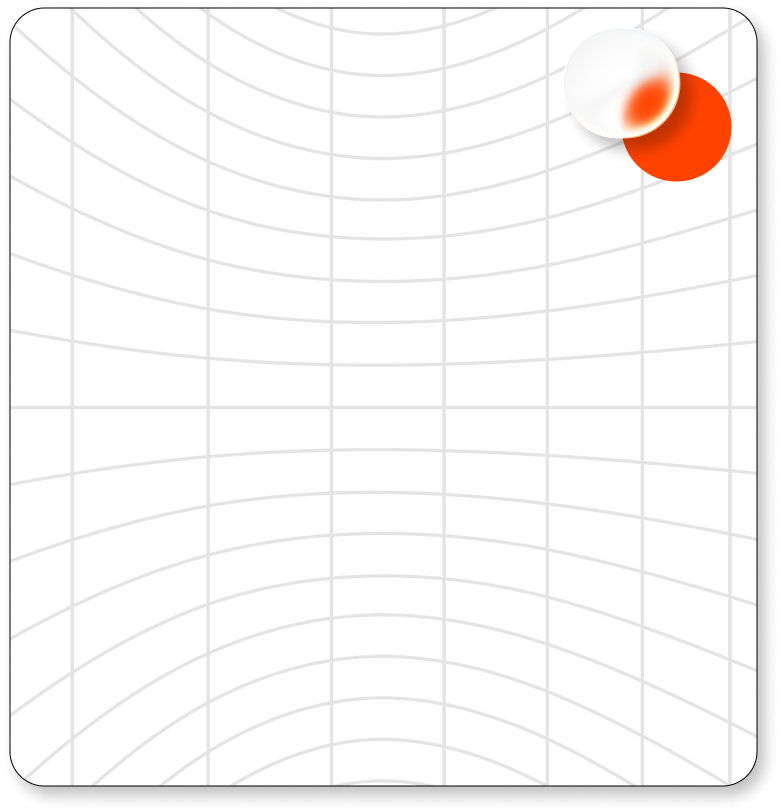
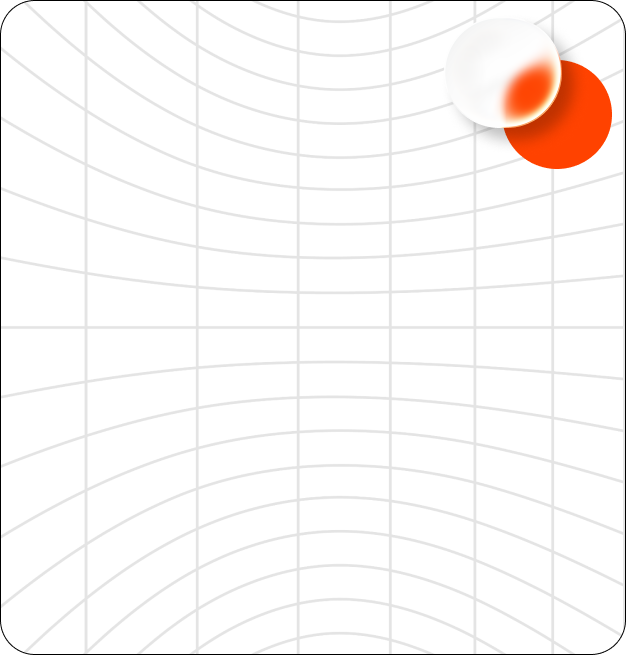
feat: responsive modal with custom input/textarea components and absolute positioned background images

diff --git a/src/components/DemoModal/DemoModal.jsx b/src/components/DemoModal/DemoModal.jsx
@@ -1,6 +1,8 @@
 import PropTypes from "prop-types";
 import { useState, useEffect } from "react";
-import { Button } from "..";
+import { Button, Flex, Typography } from "..";
+import Input from "../UI/Input/Input";
+import Textarea from "../UI/Input/Textarea";
 import data from "./demo_modal.data.json";
 
 const DemoModal = ({ isOpen, onClose }) => {
@@ -54,123 +56,105 @@ const DemoModal = ({ isOpen, onClose }) => {
   if (!isOpen) return null;
 
   return (
-    <div
-      className="fixed inset-0 z-9999 flex items-center justify-center"
-      onClick={onClose}
-      role="presentation"
-    >
+    <div className="fixed inset-0 z-9999 flex items-center justify-center" role="presentation">
       {/* Backdrop with blur */}
-      <div className="absolute inset-0 bg-black/30 backdrop-blur-sm" />
-
-      {/* Modal Container */}
-      {/* eslint-disable-next-line jsx-a11y/click-events-have-key-events, jsx-a11y/no-noninteractive-element-interactions */}
       <div
-        className="relative z-10 w-[95%] sm:w-[90%] md:w-[85%] lg:w-[748px] max-w-[748px] mx-auto px-2 sm:px-4"
-        onClick={(e) => e.stopPropagation()}
-        role="dialog"
-        aria-modal="true"
-      >
-        {/* Header Image */}
+        className="absolute inset-0 bg-black/30 backdrop-blur-sm"
+        onClick={onClose}
+        onKeyDown={(e) => {
+          if (e.key === "Enter" || e.key === " ") {
+            e.preventDefault();
+            onClose();
+          }
+        }}
+        role="button"
+        tabIndex={0}
+        aria-label="Close modal"
+      />
 
-        {/* Main Modal Card */}
-        <div
-          className="relative bg-transparent rounded-[20px] sm:rounded-[25px] md:rounded-[35px] border border-black"
-          style={{
-            boxShadow: "7px 9px 16.5px 0px rgba(0, 0, 0, 0.25)",
-            backgroundImage: `url('${data.modal_background}')`,
-            backgroundSize: "cover",
-            backgroundPosition: "center",
-            backgroundRepeat: "no-repeat",
-          }}
-        >
-          {/* Form Content */}
-          <form
-            onSubmit={handleSubmit}
-            className="relative pt-[40px] sm:pt-[50px] md:pt-[60px] pb-[40px] sm:pb-[50px] md:pb-[57px] px-[20px] sm:px-[40px] md:px-[61px]"
+      {/* Modal Content with absolute image */}
+      <section
+        className="relative w-[356px] xs:w-[376px] sm:w-[506px] md:w-[606px] lg:w-[706px]  flex justify-center items-start px-4 sm:px-6 md:px-12 py-6"
+        role="dialog"
+        tabIndex={-1}
+        aria-modal="true"
+        style={{ minHeight: 500 }}
+      >
+        {/* Responsive background image absolutely positioned */}
+        <img
+          src={data.background.mobile}
+          alt="Modal background"
+          className="absolute inset-0 w-full h-full object-fill md:hidden pointer-events-none select-none z-0"
+          draggable={false}
+        />
+        <img
+          src={data.background.large}
+          alt="Modal background large"
+          className="absolute inset-0 w-full h-full object-fill hidden md:block pointer-events-none select-none z-0"
+          draggable={false}
+        />
+        {/* Modal form content above image */}
+        <form className="relative w-full z-10" onSubmit={handleSubmit}>
+          <Flex align="items-start" justify="justify-start">
+            <Typography
+              as="h2"
+              variant="modal-title"
+              className="flex flex-col items-start text-left w-full"
+            >
+              {data.modal_title.part1}
+              <Typography.Text className="text-black text-[24px] text-left w-full">{` ${data.modal_title.part2}`}</Typography.Text>
+            </Typography>
+          </Flex>
+          <Flex
+            spaceY="space-y-2.5 md:space-y-3 2xl:space-y-8"
+            className="w-full mx-auto mt-12"
+            direction="flex-col"
+            align="items-center"
           >
-            {/* Username Input */}
-            <input
+            <Input
               type="text"
               name="username"
               value={formData.username}
               onChange={handleChange}
               placeholder="Username"
               required
-              className="w-full bg-white/50 focus:bg-white backdrop-blur-sm rounded-[12px] sm:rounded-[16px] md:rounded-[20px] px-[16px] sm:px-[20px] md:px-[23px] py-[10px] sm:py-[12px] md:py-[13px] mb-4 sm:mb-5 md:mb-6 font-poppins text-[16px] sm:text-[20px] md:text-[24px] text-black placeholder:opacity-30 border-none outline-none focus:ring-2 focus:ring-black/10 transition-colors"
             />
-
-            {/* Email Input */}
-            <input
+            <Input
               type="email"
               name="email"
               value={formData.email}
               onChange={handleChange}
               placeholder="Email Address"
               required
-              className="w-full bg-white/50 focus:bg-white backdrop-blur-sm rounded-[12px] sm:rounded-[16px] md:rounded-[20px] px-[16px] sm:px-[20px] md:px-[23px] py-[10px] sm:py-[12px] md:py-[13px] mb-4 sm:mb-5 md:mb-6 font-poppins text-[16px] sm:text-[20px] md:text-[24px] text-black placeholder:opacity-30 border-none outline-none focus:ring-2 focus:ring-black/10 transition-colors"
             />
-
-            {/* Company Name Input */}
-            <input
+            <Input
               type="text"
               name="company"
               value={formData.company}
               onChange={handleChange}
               placeholder="Company Name"
               required
-              className="w-full bg-white/50 focus:bg-white backdrop-blur-sm rounded-[12px] sm:rounded-[16px] md:rounded-[20px] px-[16px] sm:px-[20px] md:px-[23px] py-[10px] sm:py-[12px] md:py-[13px] mb-4 sm:mb-5 md:mb-6 font-poppins text-[16px] sm:text-[20px] md:text-[24px] text-black placeholder:opacity-30 border-none outline-none focus:ring-2 focus:ring-black/10 transition-colors"
             />
-
-            {/* LinkedIn Input */}
-            <input
+            <Input
               type="text"
               name="linkedin"
               value={formData.linkedin}
               onChange={handleChange}
               placeholder="Company LinkedIn"
-              className="w-full bg-white/50 focus:bg-white backdrop-blur-sm rounded-[12px] sm:rounded-[16px] md:rounded-[20px] px-[16px] sm:px-[20px] md:px-[23px] py-[10px] sm:py-[12px] md:py-[13px] mb-4 sm:mb-5 md:mb-6 font-poppins text-[16px] sm:text-[20px] md:text-[24px] text-black placeholder:opacity-30 border-none outline-none focus:ring-2 focus:ring-black/10 transition-colors"
             />
-
-            {/* Note Textarea */}
-            <textarea
+            <Textarea
               name="note"
               value={formData.note}
               onChange={handleChange}
               placeholder="Leave a Note.."
               rows={3}
-              className="w-full bg-white/50 focus:bg-white backdrop-blur-sm rounded-[12px] sm:rounded-[16px] md:rounded-[20px] px-[16px] sm:px-[20px] md:px-[23px] py-[10px] sm:py-[12px] md:py-[13px] mb-4 sm:mb-5 md:mb-6 font-poppins text-[18px] sm:text-[20px] md:text-[24px] text-gray-900 placeholder:opacity-30 outline-none resize-none transition-colors"
             />
-
-            {/* Submit Button */}
-            <div className="flex justify-center">
-              <Button
-                type="submit"
-                className="bg-black text-white rounded-[0.5rem] px-[40px] sm:px-[60px] md:px-[74px] py-2 sm:py-2.5 font-poppins font-bold text-[20px] sm:text-[26px] md:text-[32px] hover:bg-black/90 transition-all"
-              >
-                Schedule a Demo
-              </Button>
-            </div>
-          </form>
-
-          {/* Close button (X) */}
-          <button
-            type="button"
-            onClick={onClose}
-            className="absolute -top-5 -right-5 w-[50px] h-[50px] flex items-center justify-center rounded-full bg-accent transition-colors z-20"
-            aria-label="Close modal"
-          >
-            <svg
-              width="20"
-              height="20"
-              viewBox="0 0 20 20"
-              fill="#fff"
-              xmlns="http://www.w3.org/2000/svg"
-            >
-              <path d="M15 5L5 15M5 5L15 15" stroke="#fff" strokeWidth="2" strokeLinecap="round" />
-            </svg>
-          </button>
-        </div>
-      </div>
+            <Button variant="footer_contact" className="bg-black!">
+              {data.button_label.contact_button_label}
+            </Button>
+          </Flex>
+        </form>
+      </section>
     </div>
   );
 };

diff --git a/src/components/UI/Input/Input.jsx b/src/components/UI/Input/Input.jsx
@@ -1,0 +1,73 @@
+import PropTypes from "prop-types";
+import { forwardRef } from "react";
+
+const Input = forwardRef(
+  (
+    {
+      type = "text",
+      placeholder = "",
+      value,
+      onChange,
+      name,
+      required = false,
+      disabled = false,
+      variant = "default",
+      error = false,
+      errorMessage = "",
+      className = "",
+      ...rest
+    },
+    ref,
+  ) => {
+    const baseStyles =
+      "w-full border rounded-[0.5rem] px-2 sm:px-3 lg:px-5 min-h-[38px] sm:min-h-[44px] lg:min-h-[52px] h-[2.5rem] sm:h-[2.75rem] lg:h-[3rem] font-poppins text-[15px] sm:text-[16px] lg:text-[17px] text-black placeholder:text-gray-400 outline-none transition-all";
+
+    const variants = {
+      default: "bg-[#E7EAED] border-gray-200 focus:bg-white focus:border-black",
+      warning:
+        "bg-red-50 border-red-400 focus:bg-red-50 focus:border-red-500 text-red-900 placeholder:text-red-400",
+    };
+
+    const variantClass = error ? variants.warning : variants[variant];
+
+    return (
+      <div className="w-full">
+        <input
+          ref={ref}
+          type={type}
+          name={name}
+          value={value}
+          onChange={onChange}
+          placeholder={placeholder}
+          required={required}
+          disabled={disabled}
+          className={`${baseStyles} ${variantClass} ${className} ${
+            disabled ? "opacity-50 cursor-not-allowed" : ""
+          }`}
+          {...rest}
+        />
+        {error && errorMessage && (
+          <p className="mt-1 text-sm text-red-600 font-poppins">{errorMessage}</p>
+        )}
+      </div>
+    );
+  },
+);
+
+Input.displayName = "Input";
+
+Input.propTypes = {
+  type: PropTypes.string,
+  placeholder: PropTypes.string,
+  value: PropTypes.string,
+  onChange: PropTypes.func,
+  name: PropTypes.string,
+  required: PropTypes.bool,
+  disabled: PropTypes.bool,
+  variant: PropTypes.oneOf(["default", "warning"]),
+  error: PropTypes.bool,
+  errorMessage: PropTypes.string,
+  className: PropTypes.string,
+};
+
+export default Input;

diff --git a/src/components/UI/Input/Textarea.jsx b/src/components/UI/Input/Textarea.jsx
@@ -1,0 +1,73 @@
+import PropTypes from "prop-types";
+import { forwardRef } from "react";
+
+const Textarea = forwardRef(
+  (
+    {
+      placeholder = "",
+      value,
+      onChange,
+      name,
+      required = false,
+      disabled = false,
+      variant = "default",
+      error = false,
+      errorMessage = "",
+      rows = 3,
+      className = "",
+      ...rest
+    },
+    ref,
+  ) => {
+    const baseStyles =
+      "w-full border rounded-[0.5rem] px-3 py-1 font-poppins text-[16px] text-black placeholder:text-gray-400 outline-none resize-none transition-all";
+
+    const variants = {
+      default: "bg-[#E7EAED] border-gray-200 focus:bg-white focus:border-black",
+      warning:
+        "bg-red-50 border-red-400 focus:bg-red-50 focus:border-red-500 text-red-900 placeholder:text-red-400",
+    };
+
+    const variantClass = error ? variants.warning : variants[variant];
+
+    return (
+      <div className="w-full">
+        <textarea
+          ref={ref}
+          name={name}
+          value={value}
+          onChange={onChange}
+          placeholder={placeholder}
+          required={required}
+          disabled={disabled}
+          rows={rows}
+          className={`${baseStyles} ${variantClass} ${className} ${
+            disabled ? "opacity-50 cursor-not-allowed" : ""
+          }`}
+          {...rest}
+        />
+        {error && errorMessage && (
+          <p className="mt-1 text-sm text-red-600 font-poppins">{errorMessage}</p>
+        )}
+      </div>
+    );
+  },
+);
+
+Textarea.displayName = "Textarea";
+
+Textarea.propTypes = {
+  placeholder: PropTypes.string,
+  value: PropTypes.string,
+  onChange: PropTypes.func,
+  name: PropTypes.string,
+  required: PropTypes.bool,
+  disabled: PropTypes.bool,
+  variant: PropTypes.oneOf(["default", "warning"]),
+  error: PropTypes.bool,
+  errorMessage: PropTypes.string,
+  rows: PropTypes.number,
+  className: PropTypes.string,
+};
+
+export default Textarea;

diff --git a/src/index.css b/src/index.css
@@ -127,3 +127,17 @@ body {
     line-height: 34px;
   }
 } */
+
+.form-bg {
+  background-size: contain;
+  background-repeat: no-repeat;
+  background-position: center;
+  background-image: url(./assets/footer/modal_background_mobile.webp);
+}
+
+@media (min-width: 1024px) {
+  .form-bg {
+    background-size: contain;
+    background-image: url(./assets/footer/modal_background.webp);
+  }
+}

diff --git a/src/components/UI/index.js b/src/components/UI/index.js
@@ -9,3 +9,4 @@ export { default as SectionHeadContainer } from "./SectionHeadContainer/SectionH
 export { default as Container } from "./Container/Container";
 export { default as Glass } from "./Glass/Glass";
 export { default as GlassCircle } from "./GlassCircle/GlassCircle";
+export { Input, Textarea } from "./Input";

diff --git a/src/components/UI/Typography/Typography.jsx b/src/components/UI/Typography/Typography.jsx
@@ -156,6 +156,10 @@ const typographyVariants = {
     3xl:text-[24px] 3xl:text-right
     
   `,
+  "modal-title": `
+    ltr:font-poppins rtl:font-tajawal font-bold text-accent
+    text-[40px] leading-normal text-start!
+  `,
 };
 
 const htmlElements = [

diff --git a/src/components/UI/Input/index.js b/src/components/UI/Input/index.js
@@ -1,0 +1,2 @@
+export { default as Input } from "./Input";
+export { default as Textarea } from "./Textarea";
